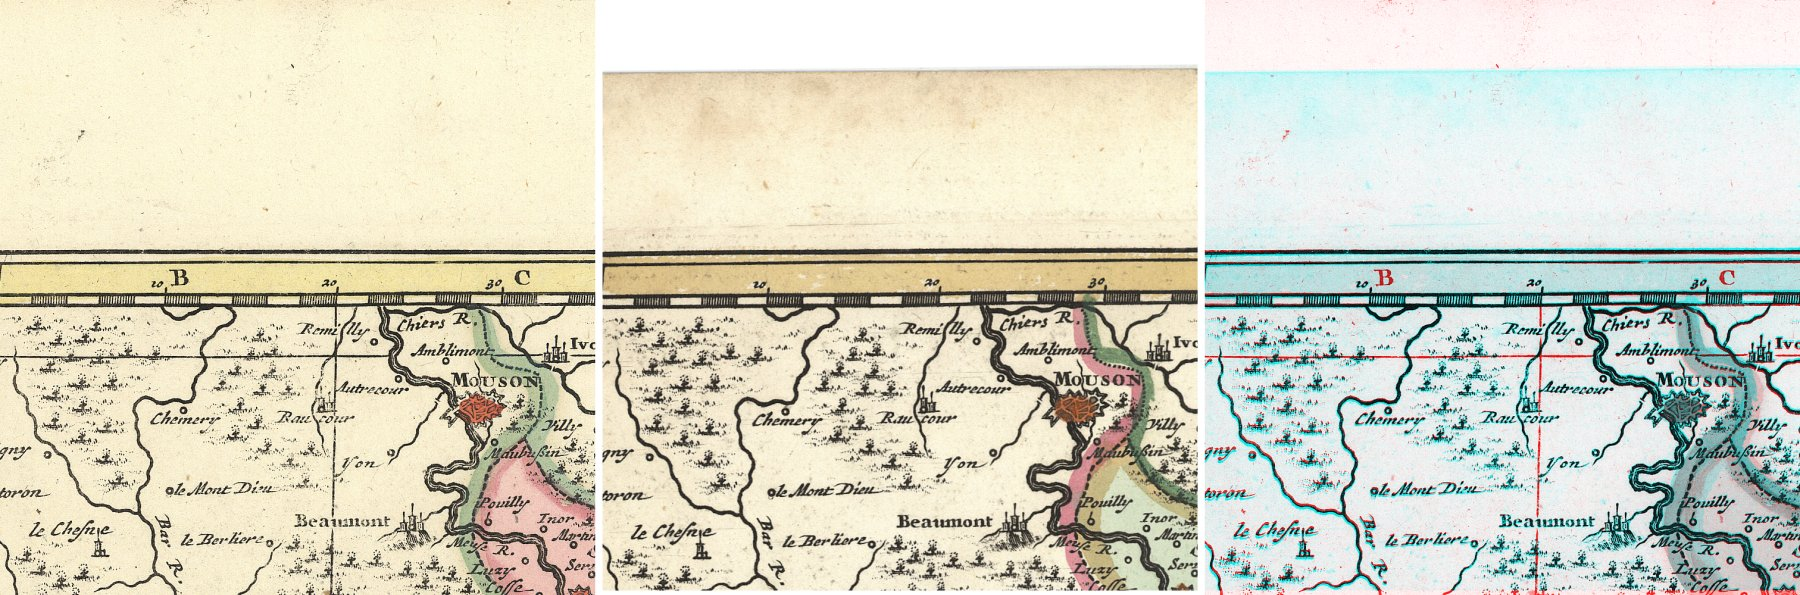
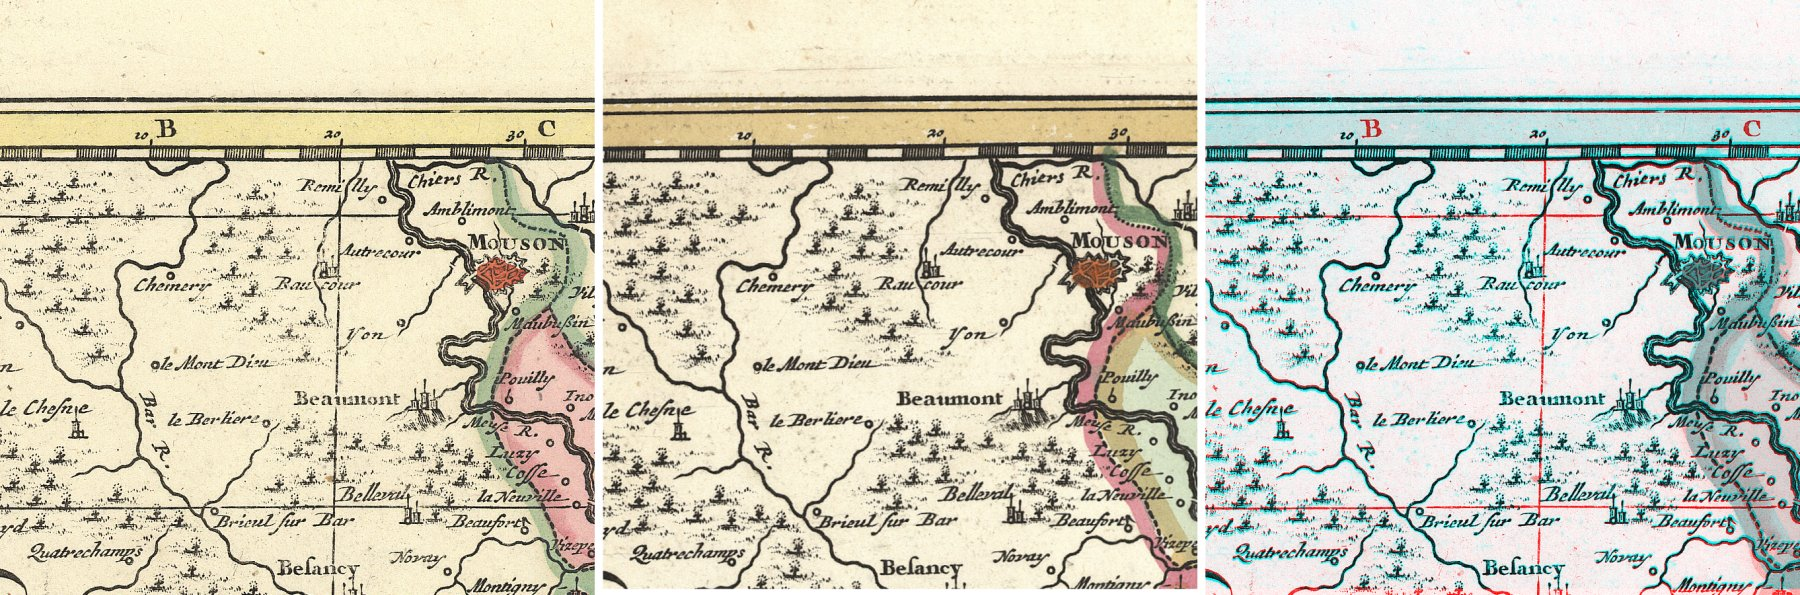
Centre the longitude and grid crops on the border, not the margin

diff --git a/copperplate/figures.py b/copperplate/figures.py
@@ -16,8 +16,8 @@ GALLERY = RESULTS / "gallery"
 HIGHLIGHTS = [
     ("ship", "K1-01", (0.815, 0.55), 900),
     ("coat_of_arms", "K7-27", (0.775, 0.655), 700),
-    ("longitude_figures", "K4-13", (0.30, 0.155), 800),
-    ("coordinate_grid", "K5-14", (0.15, 0.085), 1000),
+    ("longitude_figures", "K4-13", (0.30, 0.19), 700),
+    ("coordinate_grid", "K5-14", (0.15, 0.12), 900),
 ]
 
 
